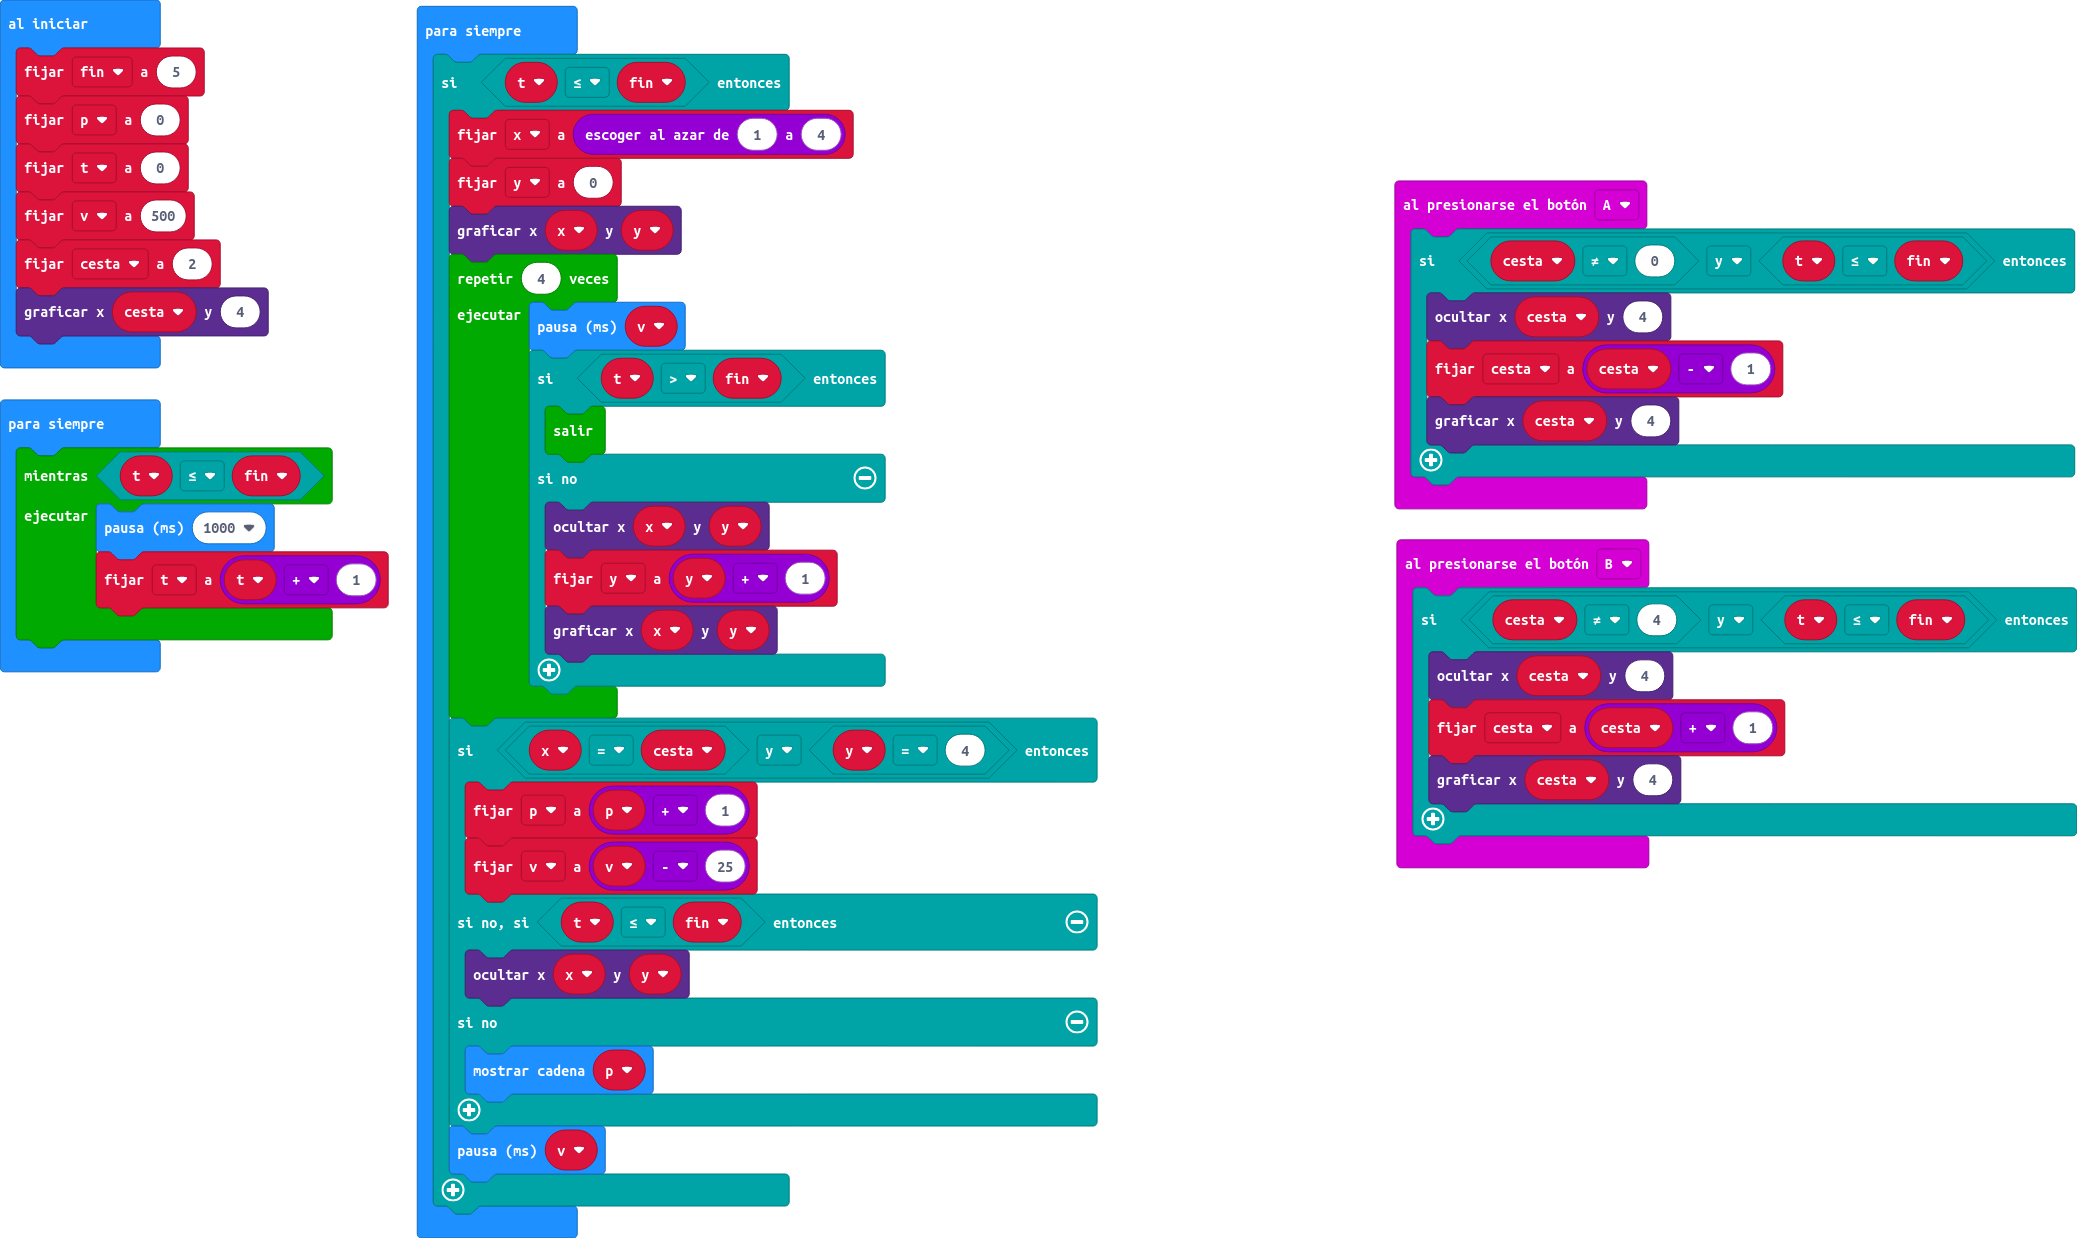
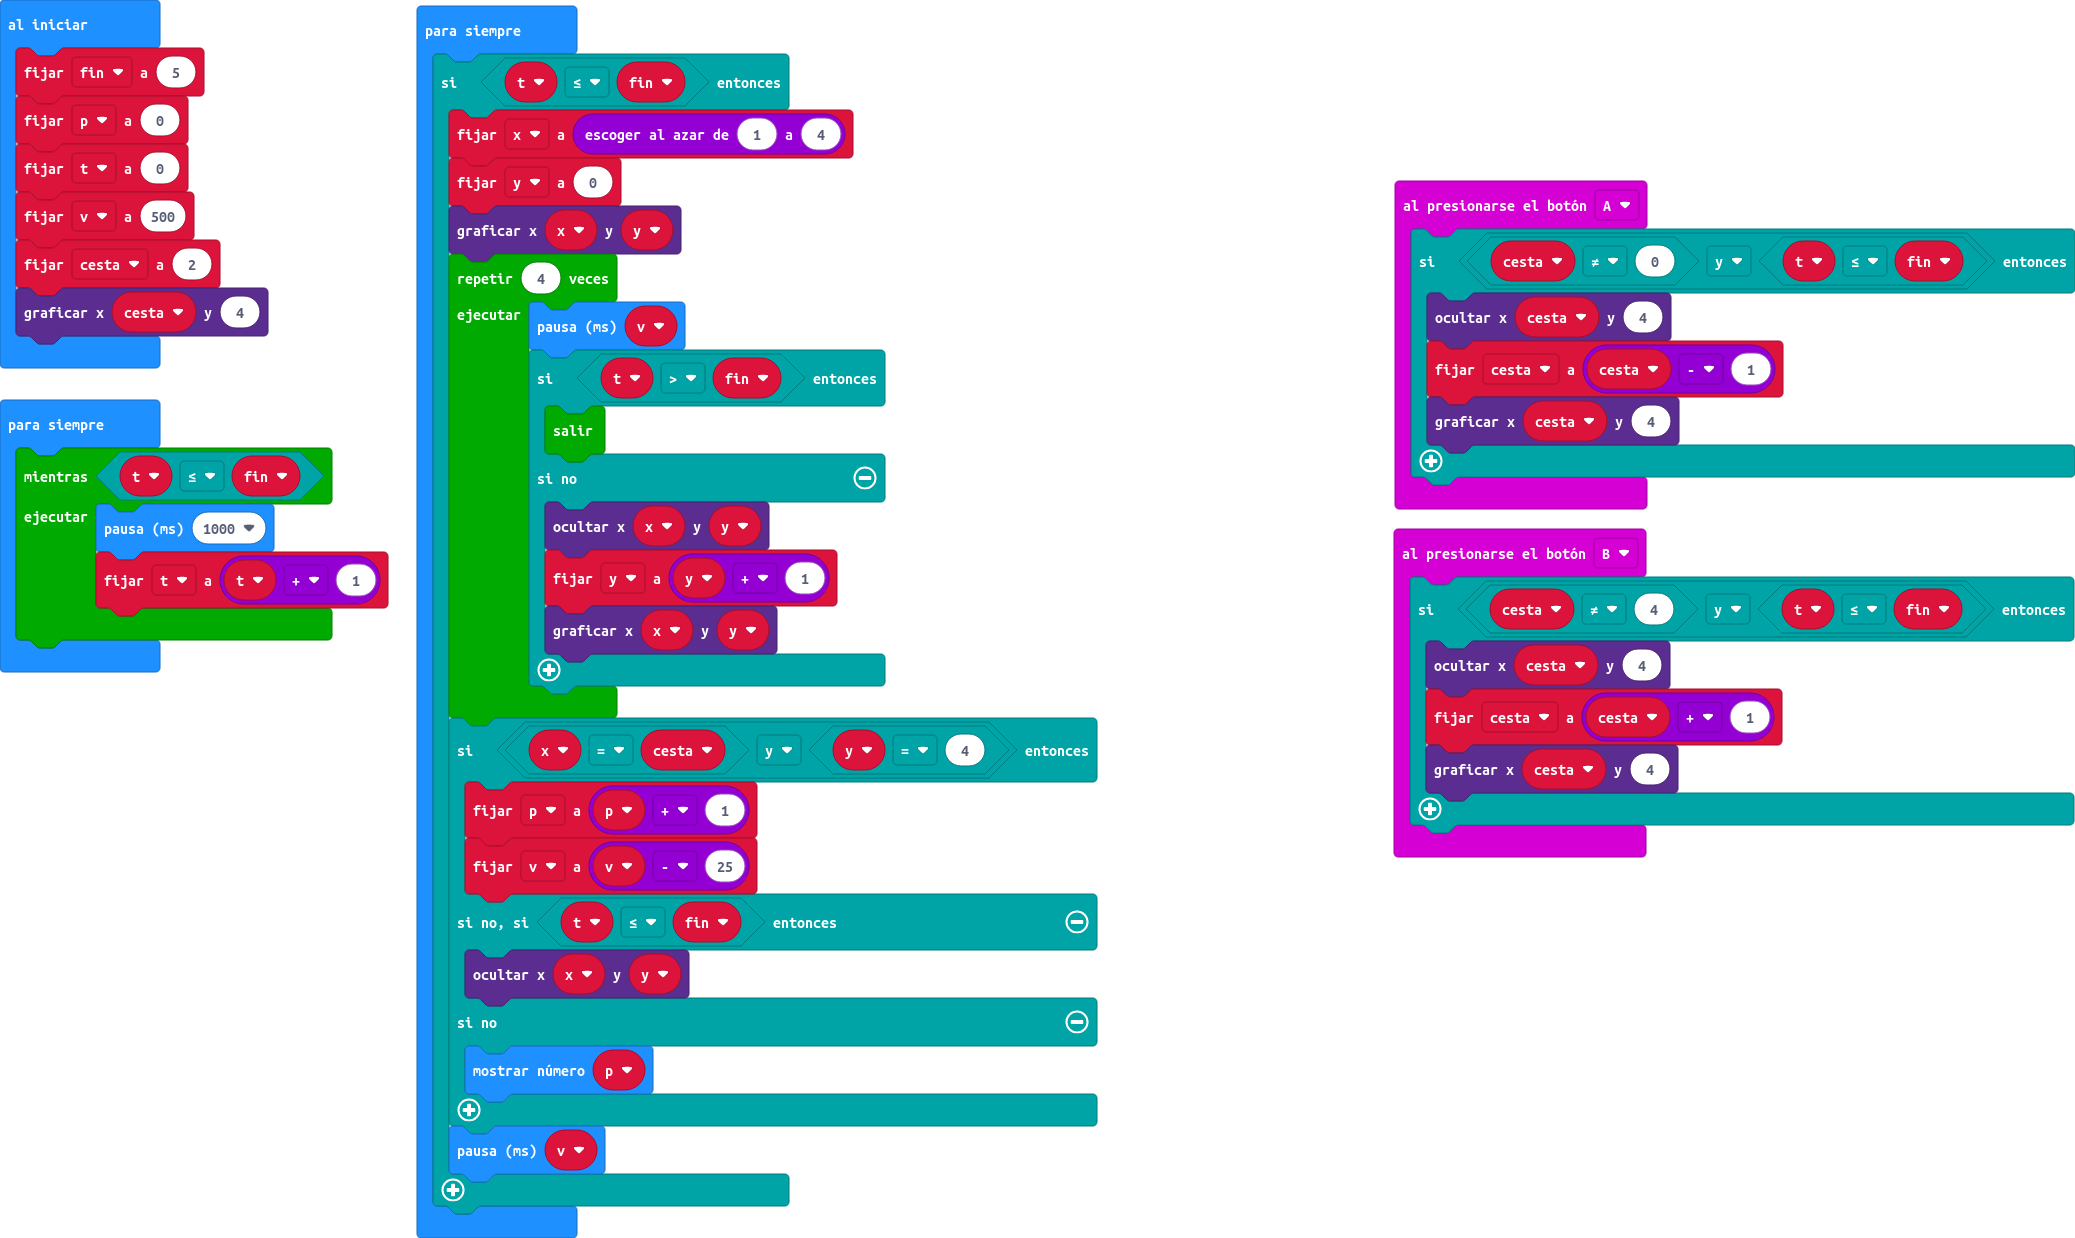
Actualizar main.blocks, main.ts

diff --git a/main.ts b/main.ts
@@ -44,7 +44,7 @@ basic.forever(function () {
         } else if (t <= fin) {
             led.unplot(x, y)
         } else {
-            basic.showString("" + (p))
+            basic.showNumber(p)
         }
         basic.pause(v)
     }
